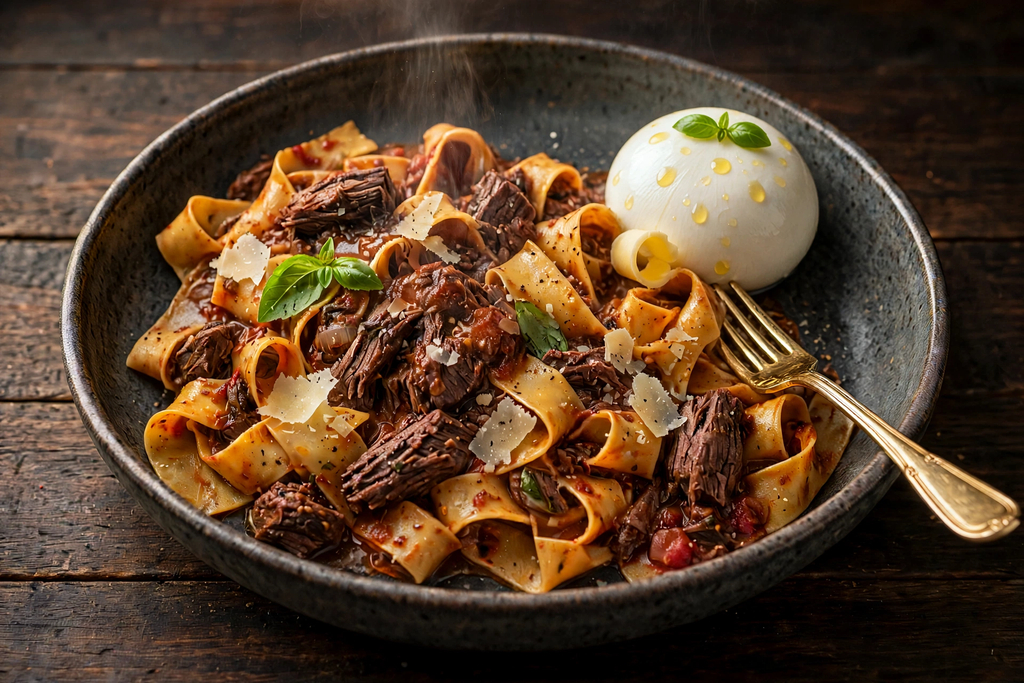
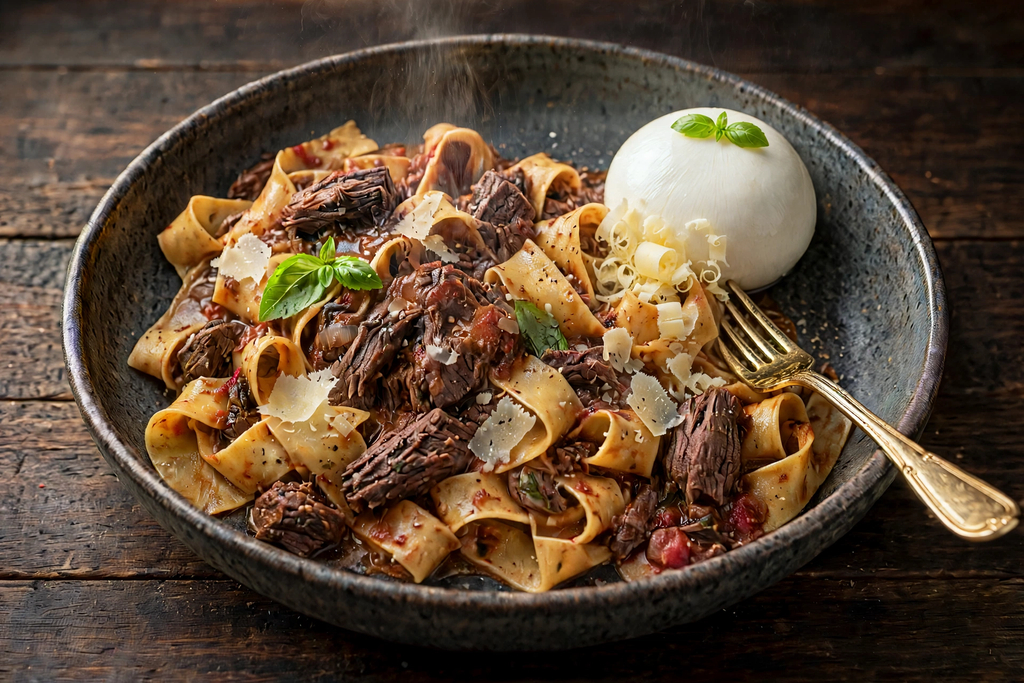
Entry 5: final plate HD — whole burrata, shaved butter, gold fork (1024x683, JPEG q100)

diff --git a/README.md b/README.md
@@ -3,13 +3,13 @@
 **The picture:** a deep, dark rustic ceramic bowl of wide pappardelle
 ribbons in a slow-braised beef ragù, photographed at a three-quarter
 angle on a dark wooden table. Resting on the pasta at the top right
-is ONE whole burrata ball — intact, smooth, closed and glossy —
-dressed with a small basil sprig on top, golden drops of olive oil
-on its surface, and a small butter curl resting against its side.
-Shaved parmesan, fresh basil leaves and droplets of chilli oil finish
-the dish, steam rises through the frame, and a polished gold fork
-rests in the bowl at the right, its handle on the rim. The light is
-low and warm, the focus shallow, the sauce rich and glossy.
+is ONE whole burrata ball — intact, smooth, closed and glossy, its
+surface clean — dressed with a small basil sprig on top and a small
+cluster of thin curled butter shavings at its base. Shaved parmesan,
+fresh basil leaves and droplets of chilli oil finish the dish, steam
+rises through the frame, and a polished gold fork rests in the bowl
+at the right, its handle on the rim. The light is low and warm, the
+focus shallow, the sauce rich and glossy.
 
 ## How the entry works
 
@@ -37,9 +37,9 @@ photograph would not fit).
   (the bounty caps each side at 1024; the full 3:2 frame fits at 1024 wide)
 - Format: JPEG (quality 100, no chroma subsampling — the highest-fidelity
   encode that fits the size cap), held in `entry.png`
-- Size: **938,941 bytes** (cap: 1,048,576)
+- Size: **950,042 bytes** (cap: 1,048,576)
 - SHA-256 of `entry.png`, and of both test runs' `/output/entry.png`:
[2 lines of base64/hex data omitted]
 - Two consecutive runs of `main.py` produced outputs byte-identical to
   each other and to `entry.png` (verified with `cmp` and SHA-256).
 - Runtime: under a tenth of a second per run (limit: 60 s). No network.
@@ -63,9 +63,11 @@ The first submitted picture (entry 1) was an overhead pappardelle,
 beef ragu and burrata platter on a slate board. It was replaced by a
 second photograph (entry 2, "the lift" — a fork twirling ribbon pasta
 in tomato sauce above a dark bowl), then by a third (entry 3 — the
-same bowl as above, with a plain whole burrata), which has in turn
-been replaced by the photograph above. The copy program is unchanged
-throughout — it serves whichever finished picture `entry.png` holds.
+same bowl as above, with a plain whole burrata), then by a fourth
+(entry 4 — the dressed burrata with oil drops and a rolled butter
+curl), which has in turn been replaced by the photograph above. The
+copy program is unchanged throughout — it serves whichever finished
+picture `entry.png` holds.
 
 `preview.png` in this folder is a copy of the final entry image.
 
